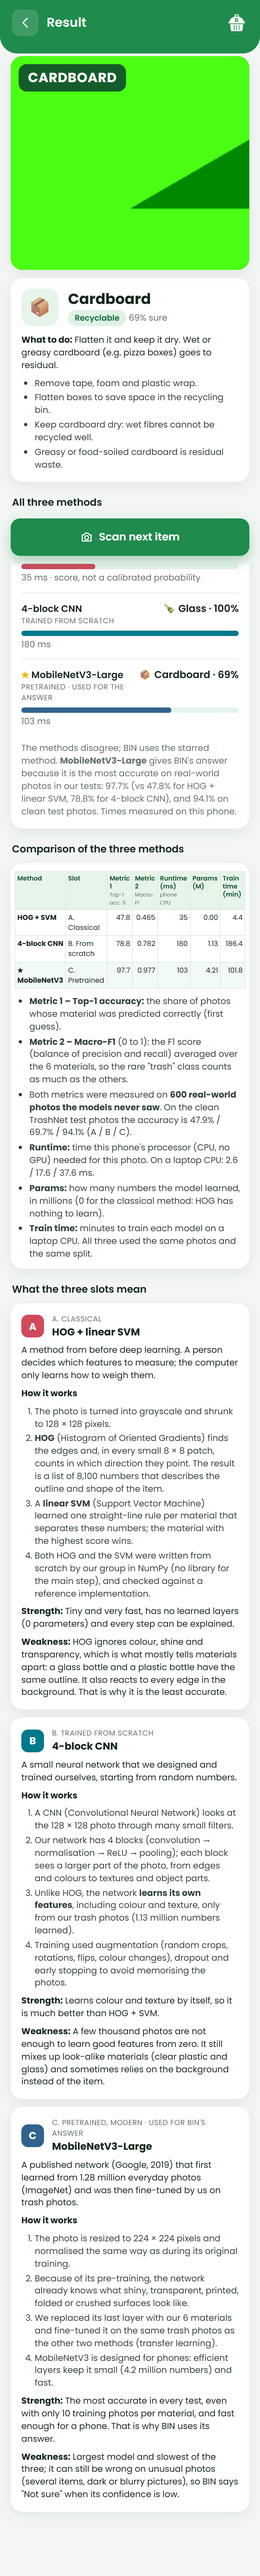
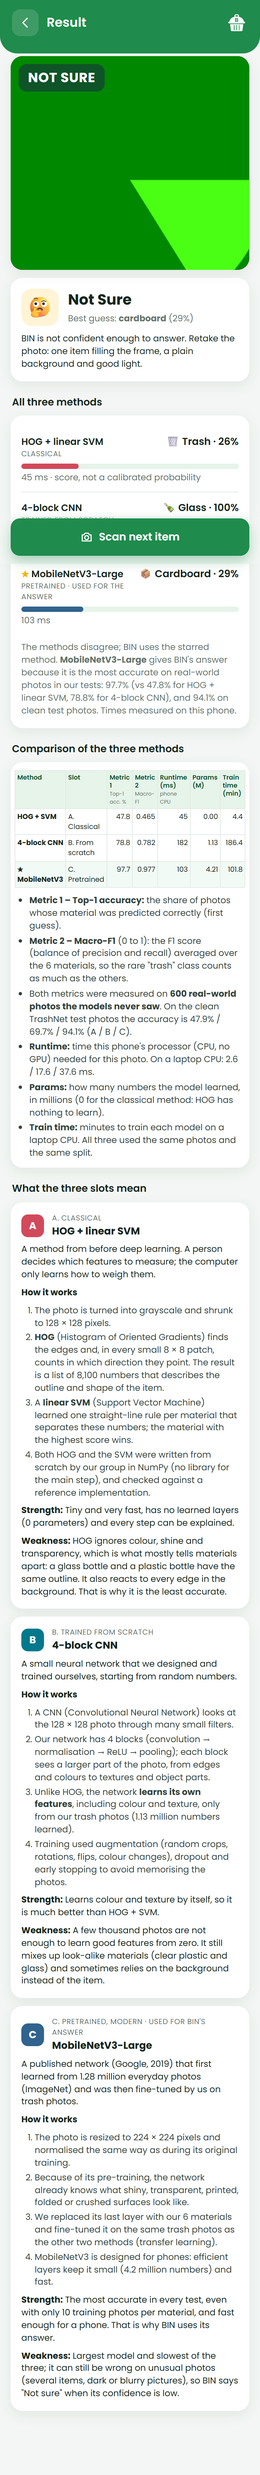
Make BIN's scan area larger and show clearly what is scanned
- The scan frame is now the largest square that fits between the status
  message and the buttons (almost full screen width instead of a small
  box), and everything outside it is darkened, so the bright square is
  exactly the part of the camera picture that is identified.
- The captured photo stays square, as before, so it is not stretched
  when resized for the models and recognition accuracy is unchanged (a
  tall full-screen capture was tested and lowered accuracy by about 9
  points, so it was not used).
- Service worker cache bin-v6 so installed apps update.

Changed region(s): [[0.0308, 0.0, 0.9846, 0.9664]]

diff --git a/web/js/app.js b/web/js/app.js
@@ -119,12 +119,13 @@ function scan() {
         <div><button class="shutter" id="shutter" aria-label="Identify"></button><div class="ctrl-label">Identify</div></div>
         <div><button class="round" id="flip" aria-label="Switch camera">${icon("flip")}</button><div class="ctrl-label">Flip</div></div>
       </div>
-      <p class="muted small" style="text-align:center;margin:10px 0 0">One item inside the frame · plain background · good light</p>
+      <p class="muted small" style="text-align:center;margin:10px 0 0">Only the bright square is scanned · one item · good light</p>
     </div>
     <input type="file" accept="image/*" id="galleryInput" hidden>
     <input type="file" accept="image/*" capture="environment" id="cameraInput" hidden>
   </div>`;
   updateStatus();
+  layoutFrame();
   const video = document.querySelector("#video");
   document.querySelector("#gallery").onclick = () => document.querySelector("#galleryInput").click();
   document.querySelector("#galleryInput").onchange = (e) => e.target.files[0] && analyseFile(e.target.files[0]);
@@ -160,19 +161,37 @@ async function startCamera(video) {
   }
 }
 
-/** Crop the video frame to the square scanner frame shown on screen, so the
- *  item fills the picture like in the training photos. */
+/** Make the scan frame the largest square that fits between the status pill and the
+ *  button sheet, centred. Square, as before, so the AI gets an undistorted photo. */
+function layoutFrame() {
+  const scanEl = document.querySelector(".scan"), frame = document.querySelector("#frame");
+  const sheet = document.querySelector(".scan .sheet"), status = document.querySelector("#status");
+  if (!scanEl || !frame || !sheet || !status) return;
+  const box = scanEl.getBoundingClientRect();
+  const top = status.getBoundingClientRect().bottom - box.top + 12;     // below the status pill
+  const bottom = sheet.getBoundingClientRect().top - box.top - 12;      // above the buttons
+  const side = Math.max(120, Math.min(box.width - 24, bottom - top));
+  frame.style.width = `${side}px`;
+  frame.style.left = `${(box.width - side) / 2}px`;
+  frame.style.top = `${top + (bottom - top - side) / 2}px`;
+}
+window.addEventListener("resize", layoutFrame);
+
+/** Take exactly the (square) area inside the frame shown on screen from the camera
+ *  picture: what is bright on screen is what the AI sees. */
 function cropToFrame(video) {
   const vr = video.getBoundingClientRect(), fr = document.querySelector("#frame").getBoundingClientRect();
   const vw = video.videoWidth, vh = video.videoHeight;
   const s = Math.max(vr.width / vw, vr.height / vh);            // object-fit: cover
   const ox = (vr.width - vw * s) / 2, oy = (vr.height - vh * s) / 2;
   let x = (fr.left - vr.left - ox) / s, y = (fr.top - vr.top - oy) / s;
-  const side = Math.min(fr.width / s, vw, vh);
-  x = Math.max(0, Math.min(vw - side, x)); y = Math.max(0, Math.min(vh - side, y));
+  let w = fr.width / s, h = fr.height / s;
+  x = Math.max(0, x); y = Math.max(0, y);
+  w = Math.min(w, vw - x); h = Math.min(h, vh - y);
+  const scale = Math.min(1, 1280 / Math.max(w, h));            // keep the photo a sensible size
   const c = document.createElement("canvas");
-  c.width = c.height = Math.round(Math.min(side, 1024));
-  c.getContext("2d").drawImage(video, x, y, side, side, 0, 0, c.width, c.height);
+  c.width = Math.round(w * scale); c.height = Math.round(h * scale);
+  c.getContext("2d").drawImage(video, x, y, w, h, 0, 0, c.width, c.height);
   return bitmapToImageData(c);
 }
 

diff --git a/web/css/app.css b/web/css/app.css
@@ -161,11 +161,18 @@ img { display: block; max-width: 100%; }
 }
 .scan .top .icon-btn { position: absolute; left: 16px; background: rgba(0, 0, 0, 0.35); }
 .scan .hint { display: inline-block; margin-top: 52px; font-weight: 500; text-shadow: 0 1px 6px rgba(0, 0, 0, 0.7); }
+/* The scan area: the largest square that fits between the top bar and the buttons.
+   Everything outside it is darkened, and exactly what is inside is sent to the AI.
+   It stays square (like before) so the photo is not stretched and accuracy is unchanged.
+   Position and size are set by layoutFrame() in app.js. */
 .frame {
-  position: absolute; z-index: 2; left: 50%; top: 44%;
-  width: 68vw; max-width: 320px; aspect-ratio: 1; transform: translate(-50%, -50%);
-  pointer-events: none;
+  position: absolute; z-index: 1; left: 12px; width: calc(100% - 24px); aspect-ratio: 1;
+  top: calc(112px + env(safe-area-inset-top, 0px));
+  border-radius: 16px; pointer-events: none;
+  box-shadow: 0 0 0 100vmax rgba(0, 0, 0, 0.5);
 }
+.scan { overflow: hidden; }
+.scan .top, .scan .status { z-index: 3; }
 .frame i { position: absolute; width: 44px; height: 44px; border: 4px solid #fff; }
 .frame i:nth-child(1) { top: 0; left: 0; border-right: 0; border-bottom: 0; border-radius: 14px 0 0 0; }
 .frame i:nth-child(2) { top: 0; right: 0; border-left: 0; border-bottom: 0; border-radius: 0 14px 0 0; }

diff --git a/web/sw.js b/web/sw.js
@@ -1,6 +1,6 @@
 // Service worker: caches BIN and its AI models so the app opens instantly
 // and works offline after the first visit. Bump VERSION when files change.
-const VERSION = "bin-v5";
+const VERSION = "bin-v6";
 const SHELL = [
   "./", "index.html", "manifest.webmanifest", "css/app.css",
   "js/app.js", "js/models.js", "js/imaging.js", "js/hog.js", "js/content.js",

diff --git a/docs/DOCUMENTATION.md b/docs/DOCUMENTATION.md
@@ -532,8 +532,9 @@ and a profile; these were **removed** so that the app focuses only on recognisin
 * **Exact preprocessing:** `web/js/imaging.js` re-implements Pillow's BILINEAR resize (anti-aliased
   triangle filter, 22-bit fixed point, horizontal then vertical pass), because a plain canvas resize gives
   slightly different pixels than the ones the models were trained on. EXIF orientation is applied.
-* **Scanner crop:** a live-camera photo is cropped to the square scanner frame, so the item fills the
-  picture like in the training photos (uploads are used whole).
+* **Scanner crop:** the scan area is the largest square that fits the camera view; everything outside it
+  is darkened, so the user sees exactly what is scanned. A live-camera photo is cropped to that square
+  (square, so it is not distorted when resized for the models; uploads are used whole).
 * **Offline and updates:** a service worker (`web/sw.js`) caches the app and models (~32 MB) after the
   first visit; changing its `VERSION` makes phones download the new version and reload once.
 * **Privacy:** photos are processed on the phone and never uploaded; history uses `localStorage`.

diff --git a/HOW_TO_USE_BIN.md b/HOW_TO_USE_BIN.md
@@ -39,7 +39,8 @@ full screen, without the browser bar, straight to the camera.
 
 BIN opens directly on the camera.
 
-1. Put **one** piece of trash **inside the white frame** so that it fills most of the frame.
+1. Put **one** piece of trash **inside the bright square** so that it fills most of it. Only the bright
+   square is scanned; the darkened area around it is ignored.
 2. Use a **plain background** (floor, table, a sheet of paper) and **good light**.
 3. Tap the big green **Identify** button.
 
